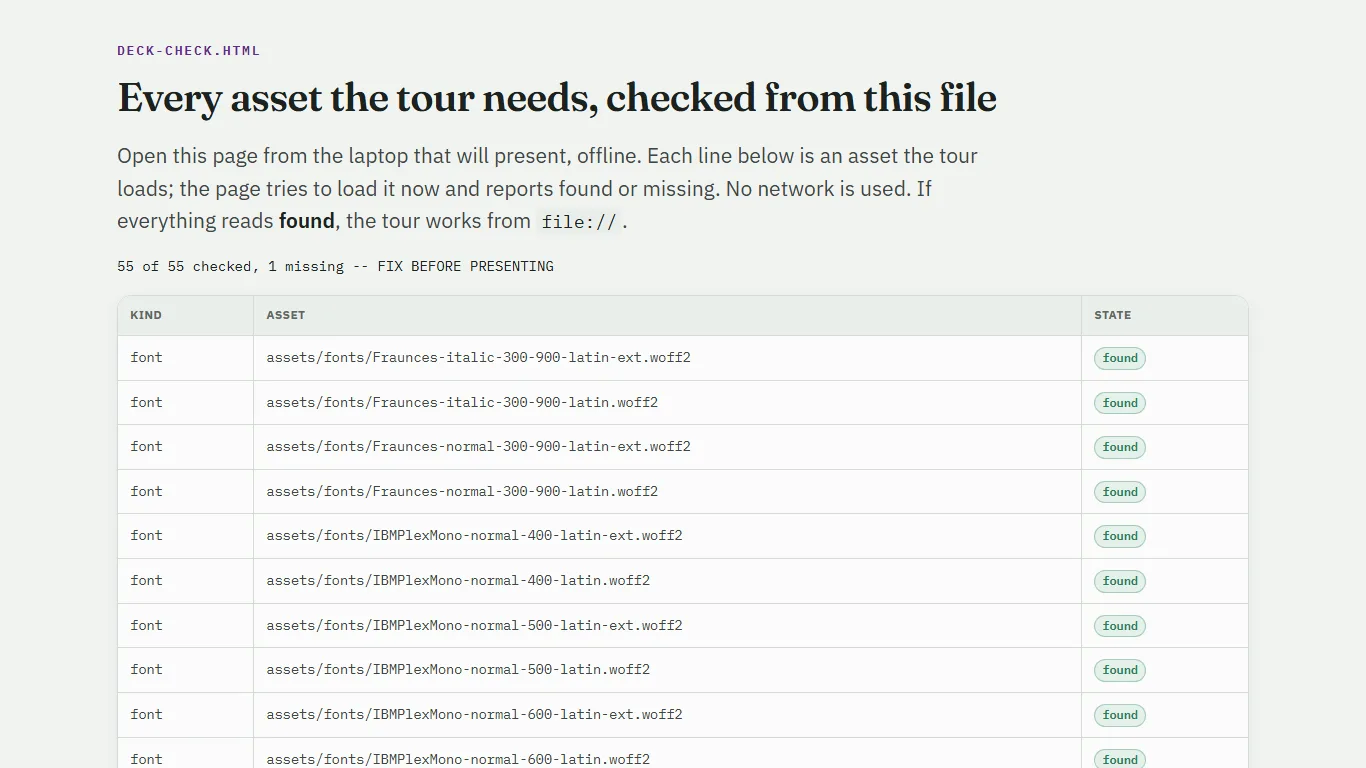
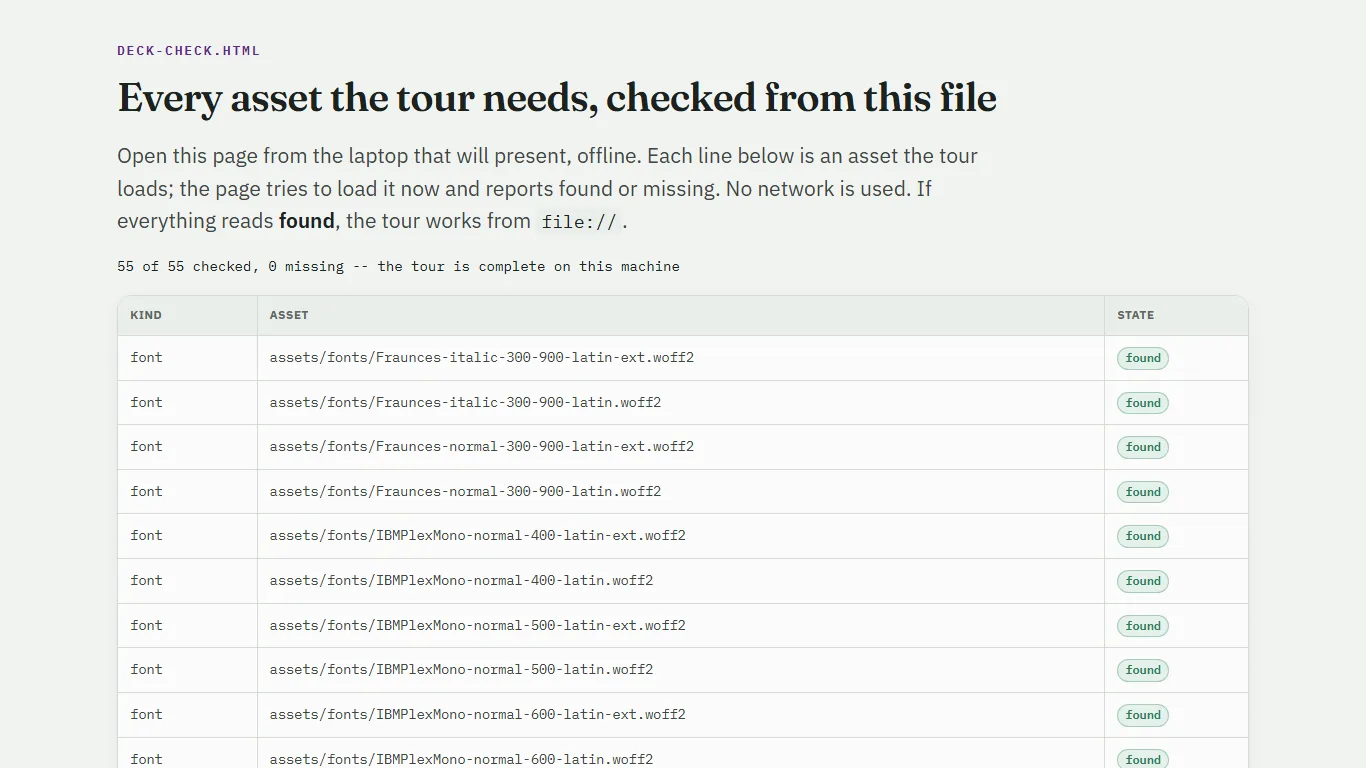
deck-check: the reader copy carries the one-line ping, so the offline check reports it found
The reader is built by the library's build_reader.ring; the build appends the
message line to this copy only, never to the tool. deck-check from file:// now
reads 55 of 55 found.

diff --git a/reader.html b/reader.html
@@ -4046,4 +4046,4 @@ o1 = new stzList(aReq)
 </code></pre><div class="out">Wannan shafin ba ya ajiye sakamako. Gudanar da ɗakin don ganin abin da yake bugawa.</div></figure>
 </article>
 </main>
-<script>(function(){var arts=document.querySelectorAll('article'),links=document.querySelectorAll('header nav a');function show(h){var p=h.split(':'),l=p[0],n=parseInt(p[1]||'1',10)||1,hit=false;arts.forEach(function(a){a.classList.remove('on');});var mine=[].filter.call(arts,function(a){return a.getAttribute('data-lang')===l;});if(!mine.length&&arts.length){l=arts[0].getAttribute('data-lang');mine=[].filter.call(arts,function(a){return a.getAttribute('data-lang')===l;});}if(n<1||n>mine.length)n=1;if(mine.length){mine[n-1].classList.add('on');window.scrollTo(0,0);}links.forEach(function(a){a.classList.toggle('on',a.getAttribute('data-go')===l);});}window.addEventListener('hashchange',function(){show(location.hash.slice(1));});show(location.hash.slice(1));})();</script></body></html>
+<script>(function(){var arts=document.querySelectorAll('article'),links=document.querySelectorAll('header nav a');function show(h){var p=h.split(':'),l=p[0],n=parseInt(p[1]||'1',10)||1,hit=false;arts.forEach(function(a){a.classList.remove('on');});var mine=[].filter.call(arts,function(a){return a.getAttribute('data-lang')===l;});if(!mine.length&&arts.length){l=arts[0].getAttribute('data-lang');mine=[].filter.call(arts,function(a){return a.getAttribute('data-lang')===l;});}if(n<1||n>mine.length)n=1;if(mine.length){mine[n-1].classList.add('on');window.scrollTo(0,0);}links.forEach(function(a){a.classList.toggle('on',a.getAttribute('data-go')===l);});}window.addEventListener('hashchange',function(){show(location.hash.slice(1));});show(location.hash.slice(1));})();</script><script>if(window.parent!==window){try{window.parent.postMessage({stzsite:'page',href:location.href},'*')}catch(e){}}</script></body></html>

diff --git a/tools/build.py b/tools/build.py
@@ -263,7 +263,13 @@ def main():
     for lang in LANGS:
         for slug, _ in order[lang]:
             assets.append({"kind": "page", "path": f"{lang}/{slug}.html"})
-    if (ROOT / "reader.html").exists():
+    reader = ROOT / "reader.html"
+    if reader.exists():
+        # the reader is built by the library's build_reader.ring; the one line the
+        # offline check listens for is appended to this copy, never to the tool
+        r = reader.read_text(encoding="utf-8")
+        if "stzsite:'page'" not in r:
+            reader.write_text(r.replace("</body>", PAGE_PING + "</body>", 1), encoding="utf-8")
         assets.append({"kind": "page", "path": "reader.html"})
     build_deck_check(assets)
     print(f"built {len(outs)} pages + index.html + deck-check.html; tour scenes fr={len(scenes['fr'])} en={len(scenes['en'])}")
